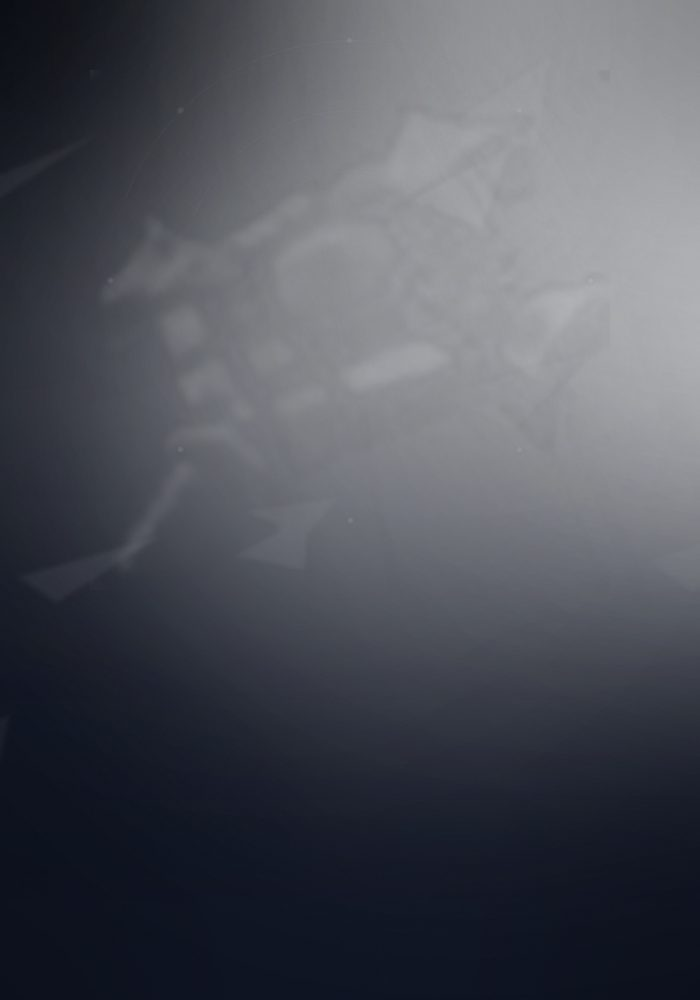
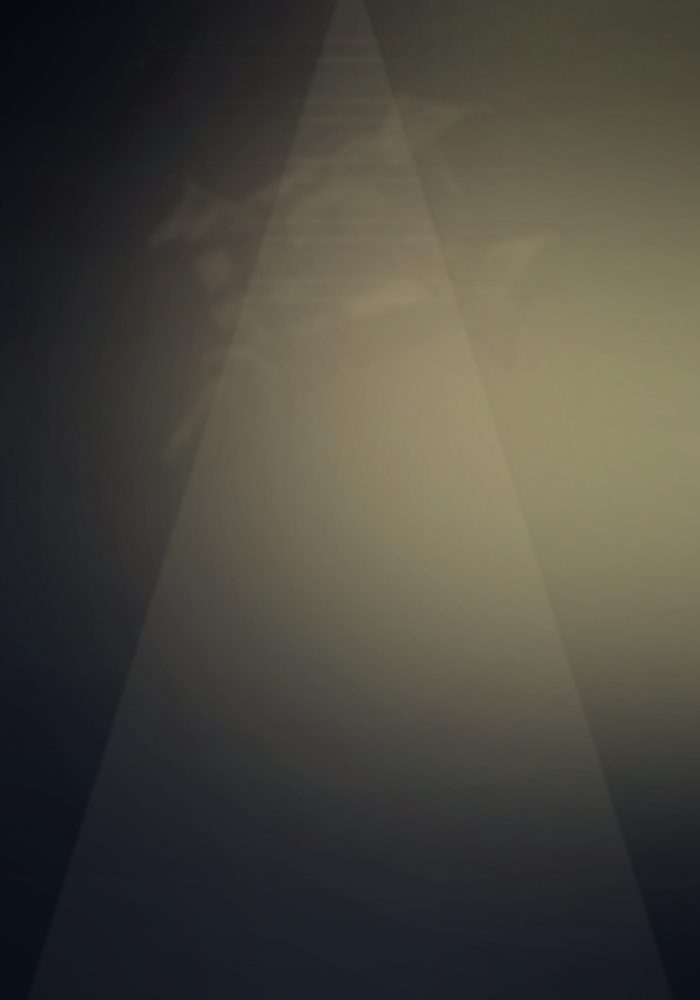
Spec-themed talent backgrounds: jungle, forest, volcano, ice, library, light, shadow, storm and more

diff --git a/scripts/generate-talent-bg.py b/scripts/generate-talent-bg.py
@@ -1,127 +1,190 @@
 import colorsys, math, os, random
-from PIL import Image, ImageDraw, ImageFilter, ImageChops
-
-ACCENTS = {
-    "Warrior": "#C79C6E", "Paladin": "#F58CBA", "Hunter": "#ABD473",
-    "Rogue": "#FFF569", "Priest": "#FFFFFF", "Shaman": "#0070DE",
-    "Mage": "#69CCF0", "Warlock": "#9482C9", "Druid": "#FF7D0A",
-}
-CLASS_IDS = {
-    "Warrior": 1, "Paladin": 2, "Hunter": 3, "Rogue": 4, "Priest": 5,
-    "Shaman": 7, "Mage": 8, "Warlock": 9, "Druid": 11,
-}
-SLUGS = {
-    "Warrior": "warrior", "Paladin": "paladin", "Hunter": "hunter",
-    "Rogue": "rogue", "Priest": "priest", "Shaman": "shaman",
-    "Mage": "mage", "Warlock": "warlock", "Druid": "druid",
-}
+from PIL import Image, ImageDraw, ImageFilter
 
 W, H = 700, 1000
 
-def hex_rgb(h):
-    h = h.lstrip("#")
-    return tuple(int(h[i:i+2], 16) for i in (0, 2, 4))
+SPEC = {
+    # class: (spec names in tree order, themes, colors)
+    "Warrior": (["Arms", "Fury", "Protection"], ["steel", "fire", "shield"], ["#C79C6E", "#FF5A3C", "#6F8FB5"]),
+    "Paladin": (["Holy", "Protection", "Retribution"], ["light", "shield", "fire"], ["#FFD77A", "#9FB6D8", "#FF9D4D"]),
+    "Hunter": (["Beast Mastery", "Marksmanship", "Survival"], ["jungle", "forest", "wild"], ["#6FAE5A", "#9A8A5A", "#8FAE5A"]),
+    "Rogue": (["Assassination", "Combat", "Subtlety"], ["poison", "steel", "shadow"], ["#7AC07A", "#C9C2A3", "#8A6FBF"]),
+    "Priest": (["Discipline", "Holy", "Shadow Magic"], ["light", "light", "shadow"], ["#E8D9FF", "#FFE9A8", "#6B4FA0"]),
+    "Shaman": (["Elemental Combat", "Enhancement", "Restoration"], ["storm", "storm", "water"], ["#4FA8FF", "#7FD0FF", "#4FD0C0"]),
+    "Mage": (["Arcane", "Fire", "Frost"], ["library", "volcano", "ice"], ["#8F7FFF", "#FF6A3A", "#7FD8FF"]),
+    "Warlock": (["Affliction", "Demonology", "Destruction"], ["plague", "fel", "fire"], ["#79A05A", "#7FE05A", "#FF4A3A"]),
+    "Druid": (["Balance", "Feral Combat", "Restoration"], ["moon", "jungle", "nature"], ["#B8C7FF", "#7FAE5A", "#5FCF8F"]),
+}
+CLASS_IDS = {"Warrior": 1, "Paladin": 2, "Hunter": 3, "Rogue": 4, "Priest": 5,
+             "Shaman": 7, "Mage": 8, "Warlock": 9, "Druid": 11}
 
-def shift(rgb, deg):
-    r, g, b = [c / 255 for c in rgb]
+def rgb(h):
+    h = h.lstrip("#"); return tuple(int(h[i:i+2], 16) for i in (0, 2, 4))
+
+def shift(c, deg):
+    r, g, b = [v / 255 for v in c]
     h, l, s = colorsys.rgb_to_hls(r, g, b)
     h = (h + deg / 360) % 1
     r, g, b = colorsys.hls_to_rgb(h, l, s)
-    return tuple(int(c * 255) for c in (r, g, b))
+    return tuple(int(v * 255) for v in (r, g, b))
 
-def make(accent_rgb, tree_index, seed, emblem_path):
+def poly(d, pts, fill): d.polygon(pts, fill=fill)
+
+def motif(theme, d, c, rnd):
+    col = c + (42,)
+    dim = tuple(int(v * 0.55) for v in c) + (60,)
+
+    if theme in ("fire", "volcano", "fel"):
+        base_y = H
+        for i in range(8):
+            x = rnd.randint(0, W); w = rnd.randint(60, 160); h = rnd.randint(120, 340)
+            poly(d, [(x, base_y), (x + w, base_y), (x + w * 0.55, base_y - h), (x + w * 0.2, base_y - h * 0.45)], col)
+        if theme == "volcano":
+            poly(d, [(0, H), (0, 620), (180, 430), (330, 560), (520, 380), (700, 600), (700, H)], dim)
+            for i in range(30):
+                x, y = rnd.randint(0, W), rnd.randint(380, 700)
+                d.ellipse([x, y, x + 3, y + 3], fill=shift(c, 10) + (70,))
+    elif theme == "ice":
+        for i in range(9):
+            x = rnd.randint(0, W); h = rnd.randint(120, 320); w = rnd.randint(40, 110)
+            poly(d, [(x, H), (x + w, H), (x + w * 0.5, H - h)], shift(c, rnd.choice([-10, 0, 12])) + (46,))
+        for i in range(4):
+            y = rnd.randint(80, 360)
+            d.arc([-100, y, W + 100, y + 180], 200, 340, fill=shift(c, 0) + (26,), width=2)
+    elif theme in ("jungle", "wild", "nature", "forest"):
+        trunk = (18, 34, 20, 90) if theme != "forest" else (44, 34, 20, 95)
+        for i in range(5):
+            x = rnd.randint(0, W); w = rnd.randint(18, 42)
+            poly(d, [(x, H), (x + w, H), (x + w * 0.8, H * 0.35), (x + w * 0.2, H * 0.35)], trunk)
+        for i in range(16):
+            x, y = rnd.randint(-40, W + 40), rnd.randint(40, int(H * 0.65))
+            rx, ry = rnd.randint(50, 150), rnd.randint(30, 90)
+            d.ellipse([x, y, x + rx, y + ry], fill=tuple(int(v * 0.7) for v in c) + (28,))
+        if theme == "forest":
+            for i in range(5):
+                x, y = rnd.randint(0, 300), rnd.randint(500, 820)
+                x2, y2 = x + rnd.randint(260, 420), y - rnd.randint(60, 160)
+                d.line([(x, y), (x2, y2)], fill=(190, 180, 140, 70), width=2)
+                poly(d, [(x2, y2), (x2 - 14, y2 - 5), (x2 - 4, y2 + 9)], (190, 180, 140, 70))
+    elif theme == "library":
+        for i in range(5):
+            x = 40 + i * 120; y = rnd.randint(420, 560)
+            d.rectangle([x, y, x + 96, H], fill=(28, 22, 46, 120))
+            for b in range(4):
+                bx = x + 8 + (b % 2) * 44
+                by = y + 16 + (b // 2) * 60
+                d.rectangle([bx, by, bx + 32, by + 48], fill=(60, 44, 90, 90))
+        for i in range(7):
+            x, y = rnd.randint(80, W - 80), rnd.randint(140, 520)
+            r = rnd.randint(10, 26)
+            d.ellipse([x, y, x + r, y + r], outline=shift(c, 10) + (55,), width=2)
+    elif theme == "light":
+        cx = W // 2
+        for i in range(7):
+            spread = 120 + i * 34
+            poly(d, [(cx - 14, 0), (cx + 14, 0), (cx + spread, H), (cx - spread, H)], (255, 236, 190, 14))
+        for i in range(5):
+            y = 40 + i * 60
+            d.ellipse([cx - 220, y, cx + 220, y + 20], outline=(255, 240, 200, 30), width=2)
+    elif theme == "shadow":
+        for i in range(6):
+            y = rnd.randint(220, 760)
+            d.arc([-160, y, W + 160, y + 260], 200, 340, fill=shift(c, 0) + (40,), width=3)
+        for i in range(4):
+            x, y = rnd.randint(100, W - 100), rnd.randint(180, 520)
+            r = rnd.randint(30, 70)
+            d.ellipse([x, y, x + r, y + r], fill=(20, 12, 34, 80))
+    elif theme == "storm":
+        for i in range(5):
+            x, y = rnd.randint(0, W), rnd.randint(20, 180)
+            d.ellipse([x, y, x + rnd.randint(160, 300), y + rnd.randint(60, 110)], fill=(18, 24, 42, 110))
+        for i in range(3):
+            x = rnd.randint(60, W - 60); y = rnd.randint(180, 300)
+            pts = [(x, y)]
+            for s in range(6):
+                x += rnd.randint(-30, 34); y += rnd.randint(24, 46)
+                pts.append((x, y))
+            d.line(pts, fill=(200, 230, 255, 85), width=3)
+    elif theme == "water":
+        for i in range(6):
+            y = 520 + i * 70
+            d.arc([-200, y, W + 200, y + 160], 200, 340, fill=shift(c, 0) + (35,), width=2)
+        for i in range(10):
+            x, y = rnd.randint(0, W), rnd.randint(200, 700)
+            r = rnd.randint(3, 7)
+            d.ellipse([x, y, x + r, y + r], fill=(200, 240, 255, 50))
+    elif theme in ("steel", "shield", "poison"):
+        if theme == "shield":
+            cx, cy, r = W // 2, 480, 210
+            pts = [(cx + r * math.cos(math.radians(a)), cy + r * math.sin(math.radians(a))) for a in range(0, 360, 60)]
+            d.polygon(pts, outline=(180, 200, 230, 70))
+            d.polygon(pts, outline=(180, 200, 230, 45))
+            for i in range(3):
+                rr = r - 30 - i * 24
+                pts = [(cx + rr * math.cos(math.radians(a)), cy + rr * math.sin(math.radians(a))) for a in range(0, 360, 60)]
+                d.polygon(pts, outline=(180, 200, 230, 30))
+        elif theme == "poison":
+            for i in range(8):
+                x, y = rnd.randint(0, W), rnd.randint(300, 760)
+                r = rnd.randint(8, 22)
+                d.ellipse([x, y, x + r, y + r], fill=shift(c, 6) + (70,))
+        else:
+            for i in range(4):
+                x, y = rnd.randint(0, W), rnd.randint(200, 620)
+                poly(d, [(x, y), (x + 300, y + 180), (x + 290, y + 200), (x - 8, y + 24)], (200, 205, 214, 34))
+    elif theme == "moon":
+        d.ellipse([W // 2 - 150, 90, W // 2 + 150, 390], fill=(220, 226, 255, 30))
+        d.ellipse([W // 2 - 70, 120, W // 2 + 90, 260], fill=(12, 16, 32, 90))
+        for i in range(40):
+            x, y = rnd.randint(0, W), rnd.randint(0, 500)
+            d.ellipse([x, y, x + 2, y + 2], fill=(230, 236, 255, 90))
+
+def make(c, theme, seed, emblem=None):
     rnd = random.Random(seed)
     base = Image.new("RGB", (W, H), (5, 8, 15))
     d = ImageDraw.Draw(base)
-    # vertical gradient
     for y in range(H):
         t = y / H
-        d.line([(0, y), (W, y)], fill=(int(5 + 8*t), int(8 + 10*t), int(15 + 18*t)))
+        d.line([(0, y), (W, y)], fill=(int(5 + 6*t), int(8 + 8*t), int(15 + 14*t)))
 
-    # glow blobs
-    for i in range(10):
+    for i in range(7):
         blob = Image.new("L", (W, H), 0)
         bd = ImageDraw.Draw(blob)
-        r = rnd.randint(140, 320)
-        cx = rnd.randint(-100, W + 100)
-        cy = rnd.randint(-120, H // 2 + 200)
-        bd.ellipse([cx - r, cy - r, cx + r, cy + r], fill=rnd.randint(35, 90))
-        blob = blob.filter(ImageFilter.GaussianBlur(120))
-        color = shift(accent_rgb, rnd.choice([-18, -8, 0, 10, 22]))
-        layer = Image.new("RGB", (W, H), color)
-        base = Image.composite(layer, base, blob)
+        r = rnd.randint(160, 320)
+        cx, cy = rnd.randint(-80, W + 80), rnd.randint(-80, int(H * 0.55))
+        bd.ellipse([cx - r, cy - r, cx + r, cy + r], fill=rnd.randint(40, 85))
+        blob = blob.filter(ImageFilter.GaussianBlur(130))
+        base = Image.composite(Image.new("RGB", (W, H), shift(c, rnd.choice([-12, 0, 12]))), base, blob)
 
-    # faded class emblem behind the talent grid
-    if os.path.exists(emblem_path):
-        icon = Image.open(emblem_path).convert("L").resize((520, 520), Image.LANCZOS)
-        size = icon.size
-        tinted = Image.new("RGB", size, shift(accent_rgb, 0))
-        emblem = Image.composite(tinted, Image.new("RGB", size, (0, 0, 0)), icon)
-        emblem = emblem.filter(ImageFilter.GaussianBlur(8))
-        mask = icon.point(lambda v: int(v * 0.18))
-        base.paste(emblem, (W // 2 - 260, 70), mask)
+    overlay = Image.new("RGBA", (W, H), (0, 0, 0, 0))
+    motif(theme, ImageDraw.Draw(overlay), c, rnd)
+    overlay = overlay.filter(ImageFilter.GaussianBlur(2))
+    base = Image.alpha_composite(base.convert("RGBA"), overlay).convert("RGB")
 
-    # angular shards
-    shards = Image.new("RGBA", (W, H), (0, 0, 0, 0))
-    sd0 = ImageDraw.Draw(shards)
-    for _ in range(9):
-        x = rnd.randint(-100, W)
-        y = rnd.randint(80, H - 120)
-        pts = [(x, y), (x + rnd.randint(40, 160), y - rnd.randint(10, 70)),
-               (x + rnd.randint(20, 90), y + rnd.randint(10, 40))]
-        sd0.polygon(pts, fill=shift(accent_rgb, rnd.choice([-14, 0, 14])) + (rnd.randint(8, 18),))
-    shards = shards.filter(ImageFilter.GaussianBlur(3))
-    base = Image.alpha_composite(base.convert("RGBA"), shards).convert("RGB")
+    if emblem and os.path.exists(emblem):
+        icon = Image.open(emblem).convert("L").resize((420, 420), Image.LANCZOS)
+        tinted = Image.new("RGB", icon.size, c)
+        em = Image.composite(tinted, Image.new("RGB", icon.size, (0, 0, 0)), icon)
+        em = em.filter(ImageFilter.GaussianBlur(7))
+        mask = icon.point(lambda v: int(v * 0.10))
+        base.paste(em, (W // 2 - 210, 60), mask)
 
-    # diagonal light streaks
-    streaks = Image.new("RGBA", (W, H), (0, 0, 0, 0))
-    sd = ImageDraw.Draw(streaks)
-    for i in range(6):
-        x = rnd.randint(-200, W)
-        sd.line([(x, -50), (x + rnd.randint(200, 500), H + 50)],
-                fill=shift(accent_rgb, rnd.choice([-10, 0, 12])) + (rnd.randint(8, 22),),
-                width=rnd.randint(1, 4))
-    streaks = streaks.filter(ImageFilter.GaussianBlur(6))
-    base = Image.alpha_composite(base.convert("RGBA"), streaks).convert("RGB")
-
-    # faint rune rings
-    runes = Image.new("RGBA", (W, H), (0, 0, 0, 0))
-    rd = ImageDraw.Draw(runes)
-    cx, cy = W // 2, int(H * 0.28)
-    for r in (110, 170, 240):
-        rd.arc([cx - r, cy - r, cx + r, cy + r], 200, 340,
-               fill=shift(accent_rgb, 0) + (18,), width=2)
-    for a in range(0, 360, 45):
-        x = cx + math.cos(math.radians(a)) * 240
-        y = cy + math.sin(math.radians(a)) * 240
-        rd.ellipse([x - 3, y - 3, x + 3, y + 3],
-                   fill=shift(accent_rgb, 0) + (25,))
-    runes = runes.filter(ImageFilter.GaussianBlur(1))
-    base = Image.alpha_composite(base.convert("RGBA"), runes).convert("RGB")
-
-    # grain
-    noise = Image.effect_noise((W, H), 22).convert("L")
+    noise = Image.effect_noise((W, H), 20).convert("L")
     noise = noise.filter(ImageFilter.GaussianBlur(0.4))
-    base = Image.composite(Image.new("RGB", (W, H), (120, 130, 150)), base,
-                           noise.point(lambda v: int(v * 0.07)))
+    base = Image.composite(Image.new("RGB", (W, H), (120, 130, 150)), base, noise.point(lambda v: int(v * 0.06)))
 
-    # vignette
     mask = Image.new("L", (W, H), 0)
-    md = ImageDraw.Draw(mask)
-    md.ellipse([-W * 0.2, -H * 0.1, W * 1.2, H * 1.1], fill=255)
-    mask = mask.filter(ImageFilter.GaussianBlur(160))
-    dark = Image.new("RGB", (W, H), (2, 3, 6))
-    base = Image.composite(base, dark, mask)
-
+    ImageDraw.Draw(mask).ellipse([-W * 0.2, -H * 0.1, W * 1.2, H * 1.1], fill=255)
+    mask = mask.filter(ImageFilter.GaussianBlur(150))
+    base = Image.composite(base, Image.new("RGB", (W, H), (2, 3, 6)), mask)
     return base
 
-for cls, accent in ACCENTS.items():
-    rgb = hex_rgb(accent)
+for cls, (names, themes, colors) in SPEC.items():
     cid = CLASS_IDS[cls]
-    for tree in range(3):
-        shift_deg = [0, 16, -30][tree]
-        img = make(shift(rgb, shift_deg), tree, seed=cid * 10 + tree,
-                   emblem_path=f"/tmp/classicons/classicon_{SLUGS[cls]}.jpg")
-        out = f"public/talents/bg/{cid}-{tree}.jpg"
-        img.save(out, quality=82, optimize=True)
-print("generated", len(ACCENTS) * 3, "backgrounds")
+    slug = cls.lower()
+    for i, theme in enumerate(themes):
+        color = rgb(colors[i])
+        img = make(color, theme, seed=cid * 100 + i * 7,
+                   emblem=f"scripts/classicons/classicon_{slug}.jpg")
+        img.save(f"public/talents/bg/{cid}-{i}.jpg", quality=82, optimize=True)
+print("generated", sum(len(v[2]) for v in SPEC.values()), "themed backgrounds")
